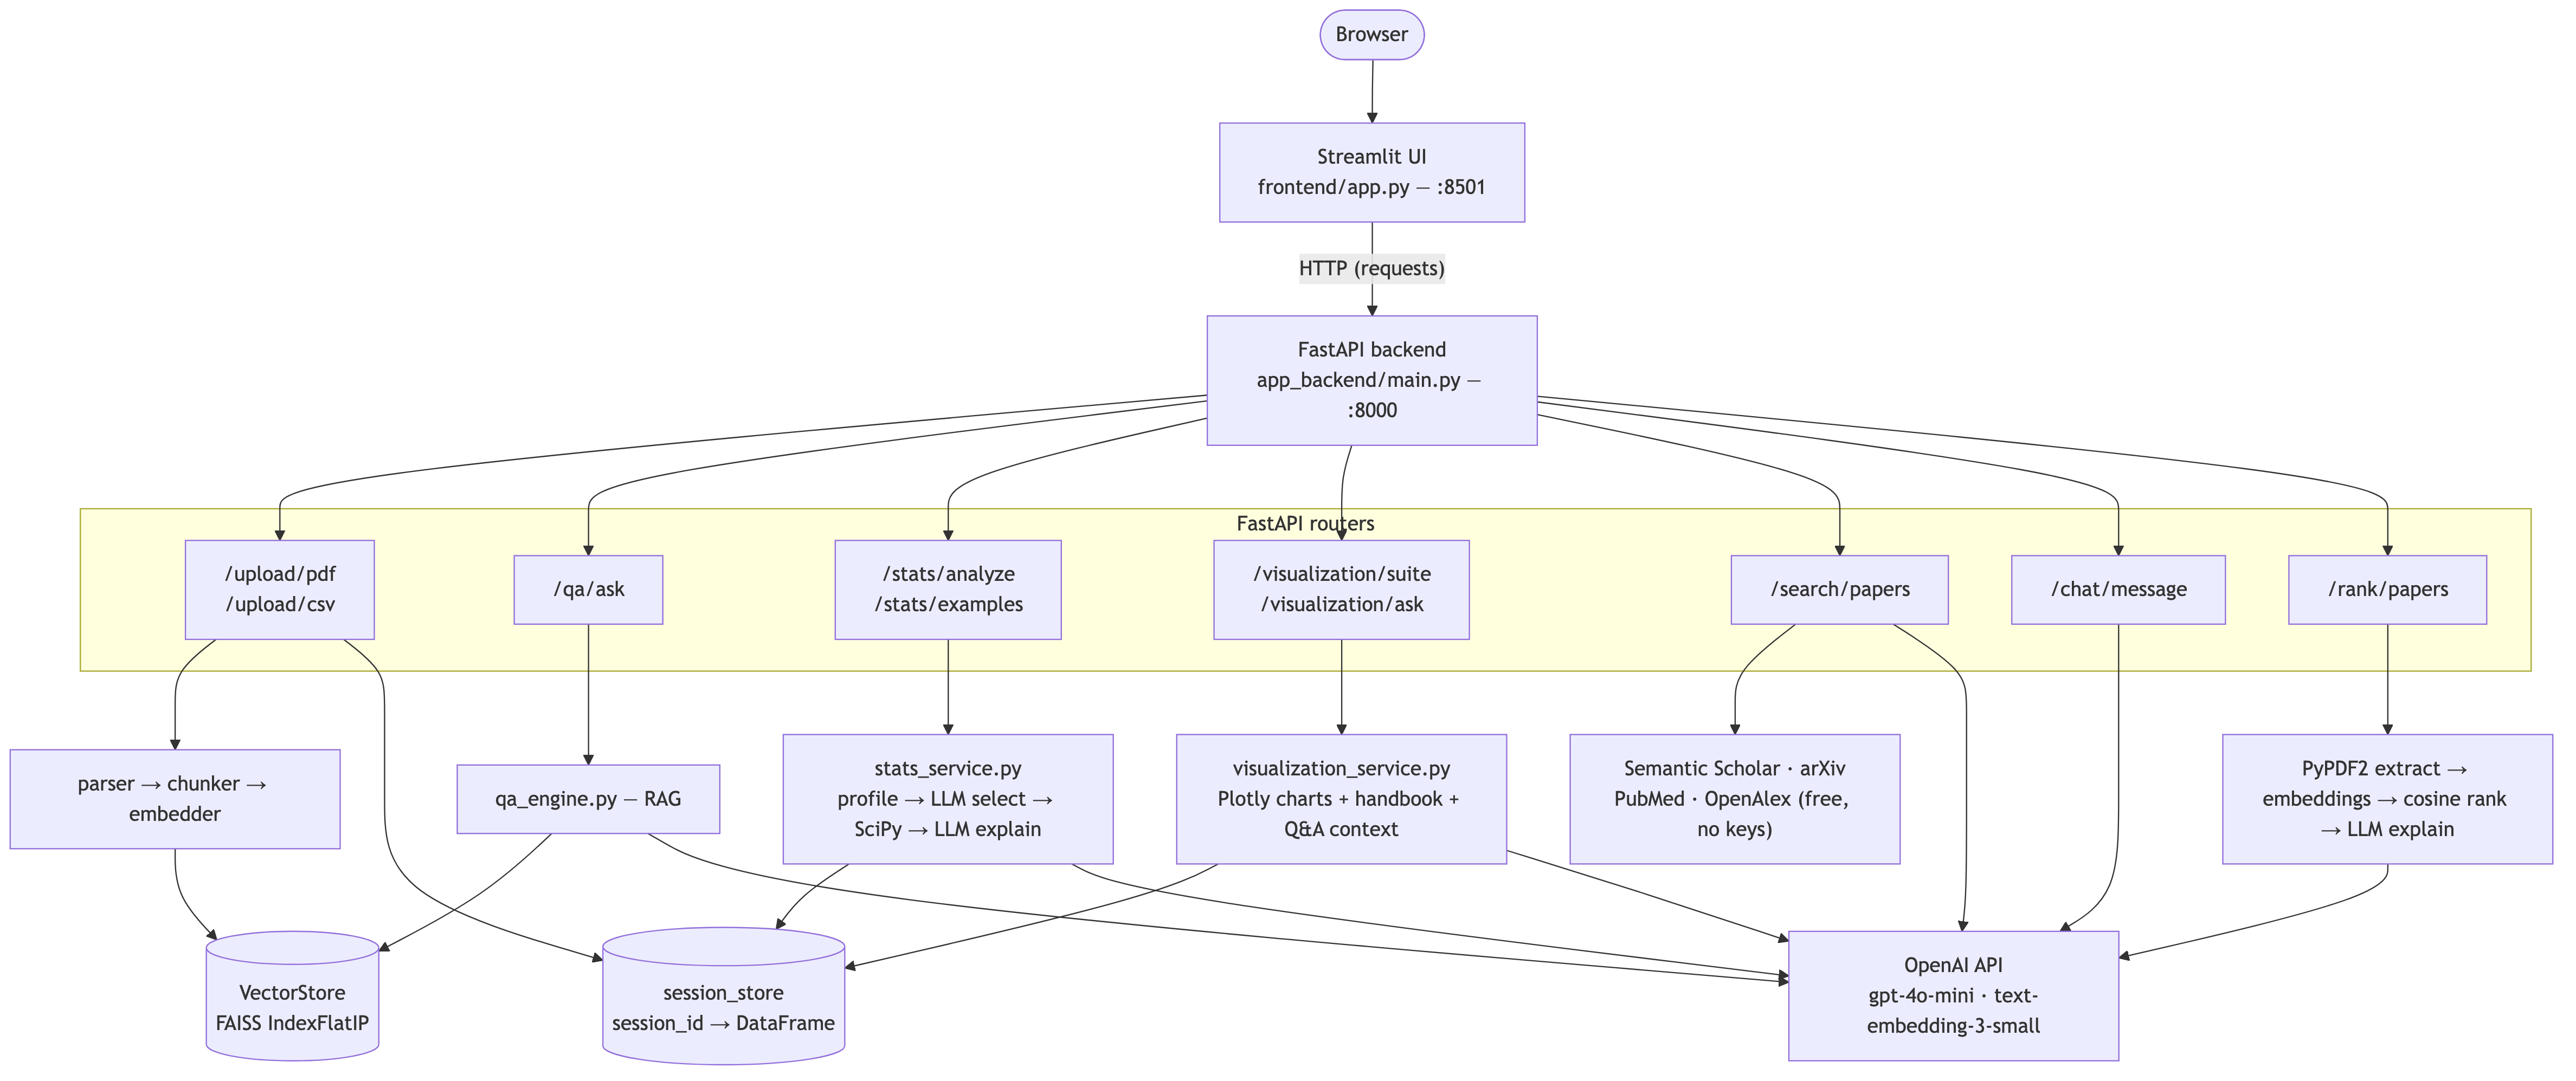
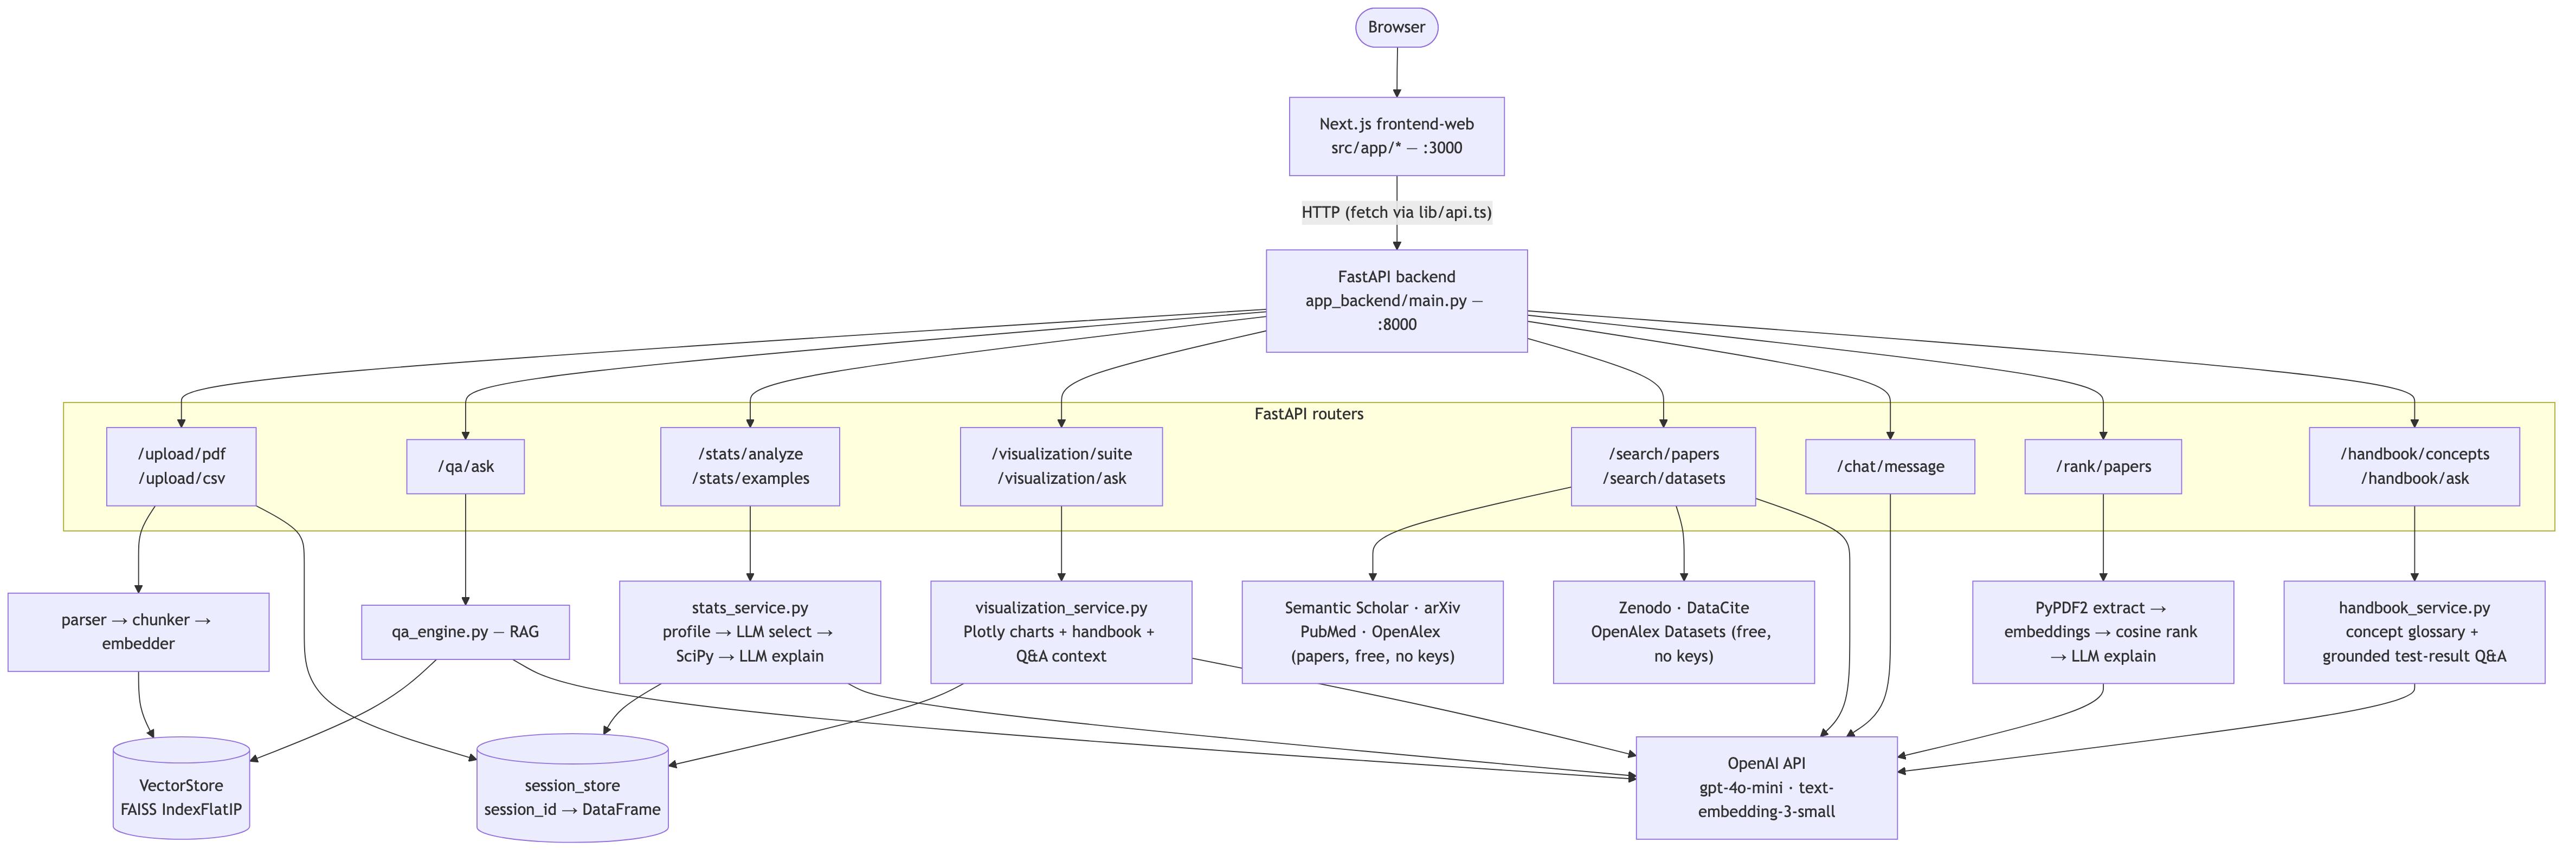
Update README architecture diagram and docs for Next.js frontend migration
Diagram, project structure, startup steps, flows, and reference tables
still described the old Streamlit UI and lacked the handbook and
dataset-search routers added since. Regenerated docs/architecture.png
to match.

diff --git a/README.md b/README.md
@@ -11,11 +11,12 @@ A research tool for students and academics. Upload **PDFs** and **CSV/XLSX datas
 | **Ask Questions** | Chat with an uploaded research PDF using RAG (retrieval-augmented generation) |
 | **Statistical Analysis** | Describe a hypothesis in plain language — the AI picks the right test, SciPy runs it, the AI explains the results. Results come with an interactive Plotly chart suite (boxplot, violin, bell curve, histogram, scatter, correlation matrix, or contingency heatmap depending on the test), a plain-language caption and handbook per chart, and a mini chat to ask follow-up questions about any chart. Export to CSV or XLSX. |
 | **Data Preview** | Inspect columns, types, and sample rows from your uploaded dataset |
-| **Find Papers** | Enter a research question — searches Semantic Scholar, arXiv, PubMed, and OpenAlex in parallel and summarises the literature with an LLM |
+| **Find Papers & Datasets** | Enter a research question — searches Semantic Scholar, arXiv, PubMed, and OpenAlex in parallel and summarises the literature with an LLM; or switch to dataset mode to search Zenodo, DataCite, and OpenAlex Datasets for open data matching your hypothesis |
 | **Hypothesis Chat** | Chat about any hypothesis, scientific or wild — the AI engages thoughtfully and asks follow-up questions |
 | **Rank Papers** | Upload up to 20 PDFs — the AI ranks them by relevance to your research question with explanations and key quotes. Export to Word or PDF. |
+| **Statistics Handbook** | Look up core statistics concepts and every supported hypothesis test in plain language, or ask the built-in chatbot — answers ground themselves in your actual test result when one is available. |
 
-The UI is a **Streamlit** app; all heavy logic lives in a **FastAPI** backend. They communicate over HTTP on `localhost`.
+The UI is a **Next.js** app (`frontend-web/`); all heavy logic lives in a **FastAPI** backend. They communicate over HTTP on `localhost`.
 
 ---
 
@@ -26,11 +27,11 @@ The UI is a **Streamlit** app; all heavy logic lives in a **FastAPI** backend. T
 - [Startup](#startup)
 - [Flow 1: PDF upload and Q&A](#flow-1-pdf-upload-and-qa)
 - [Flow 2: Dataset upload and statistical analysis](#flow-2-dataset-upload-and-statistical-analysis)
-- [Flow 3: Find Papers](#flow-3-find-papers)
+- [Flow 3: Find Papers & Datasets](#flow-3-find-papers--datasets)
 - [Flow 4: Hypothesis Chat](#flow-4-hypothesis-chat)
 - [Flow 5: Rank Papers](#flow-5-rank-papers)
 - [Export options](#export-options)
-- [Frontend session state](#frontend-session-state)
+- [Frontend state](#frontend-state)
 - [Backend modules reference](#backend-modules-reference)
 - [API endpoints](#api-endpoints)
 - [Supported statistical tests](#supported-statistical-tests)
@@ -42,19 +43,20 @@ The UI is a **Streamlit** app; all heavy logic lives in a **FastAPI** backend. T
 
 ```mermaid
 flowchart TD
-    Browser(["Browser"]) --> UI["Streamlit UI\nfrontend/app.py — :8501"]
-    UI -- "HTTP (requests)" --> API["FastAPI backend\napp_backend/main.py — :8000"]
+    Browser(["Browser"]) --> UI["Next.js frontend-web\nsrc/app/* — :3000"]
+    UI -- "HTTP (fetch via lib/api.ts)" --> API["FastAPI backend\napp_backend/main.py — :8000"]
 
     subgraph Routers["FastAPI routers"]
         RUpload["/upload/pdf\n/upload/csv"]
         RQA["/qa/ask"]
         RStats["/stats/analyze\n/stats/examples"]
         RViz["/visualization/suite\n/visualization/ask"]
-        RSearch["/search/papers"]
+        RSearch["/search/papers\n/search/datasets"]
         RChat["/chat/message"]
         RRank["/rank/papers"]
+        RHandbook["/handbook/concepts\n/handbook/ask"]
     end
-    API --> RUpload & RQA & RStats & RViz & RSearch & RChat & RRank
+    API --> RUpload & RQA & RStats & RViz & RSearch & RChat & RRank & RHandbook
 
     RUpload --> PdfPipe["parser → chunker → embedder"] --> VecStore[("VectorStore\nFAISS IndexFlatIP")]
     RUpload --> SessionStore[("session_store\nsession_id → DataFrame")]
@@ -70,12 +72,16 @@ flowchart TD
     VizService --> SessionStore
     VizService --> OpenAI
 
-    RSearch --> Academic["Semantic Scholar · arXiv\nPubMed · OpenAlex (free, no keys)"]
+    RSearch --> Academic["Semantic Scholar · arXiv\nPubMed · OpenAlex (papers, free, no keys)"]
+    RSearch --> DataReg["Zenodo · DataCite\nOpenAlex Datasets (free, no keys)"]
     RSearch --> OpenAI
 
     RChat --> OpenAI
 
     RRank --> RankLogic["PyPDF2 extract → embeddings → cosine rank → LLM explain"] --> OpenAI
+
+    RHandbook --> HandbookService["handbook_service.py\nconcept glossary + grounded test-result Q&A"]
+    HandbookService --> OpenAI
 
     OpenAI["OpenAI API\ngpt-4o-mini · text-embedding-3-small"]
 ```
@@ -91,15 +97,17 @@ npx @mermaid-js/mermaid-cli -i /tmp/arch.mmd -o docs/architecture.png -w 1600 -H
 
 | Layer | Technology | Role |
 |-------|------------|------|
-| Frontend | Streamlit | File uploads, tabs, chat UI, results display, export |
+| Frontend | Next.js (App Router), TypeScript | Pages/nav, file uploads, chat UI, results display, export |
 | API | FastAPI | REST endpoints, CORS, shared singletons |
 | PDF pipeline | PyPDF2, chunker, OpenAI embeddings | Index document for search |
 | Vector search | FAISS (or numpy fallback) | Similarity search over chunk embeddings |
 | Data | pandas | Load CSV/XLSX, profile schema, run tests |
 | Statistics | SciPy, statsmodels | Actual hypothesis tests |
 | Visualization | Plotly (`graph_objects`) | Gauge, boxplot, violin, bell curve, histogram, scatter, correlation matrix, contingency heatmap |
-| Intelligence | OpenAI (`gpt-4o-mini`, `text-embedding-3-small`) | Test selection, Q&A, explanations, summaries, chat, chart Q&A |
+| Intelligence | OpenAI (`gpt-4o-mini`, `text-embedding-3-small`) | Test selection, Q&A, explanations, summaries, chat, chart Q&A, handbook Q&A |
 | Academic search | Semantic Scholar, arXiv, PubMed, OpenAlex APIs | Free paper search — no API keys required |
+| Dataset search | Zenodo, DataCite, OpenAlex Datasets APIs | Free open-dataset search — no API keys required |
+| Handbook | `handbook_service.py` | Statistics concept glossary + grounded chatbot over a computed result |
 | Export | python-docx, reportlab, openpyxl | Word, PDF, XLSX file generation |
 
 ---
@@ -108,8 +116,27 @@ npx @mermaid-js/mermaid-cli -i /tmp/arch.mmd -o docs/architecture.png -w 1600 -H
 
 ```
 Hypothesis_App/
-├── frontend/
-│   └── app.py                  # Streamlit UI — all 6 tabs, export helpers
+├── frontend-web/                       # Next.js (App Router) UI
+│   ├── src/
+│   │   ├── app/
+│   │   │   ├── page.tsx                # Landing page
+│   │   │   ├── hypothesis-chat/        # Flow 4
+│   │   │   ├── ask-questions/          # Flow 1
+│   │   │   ├── find/                   # Flow 3 (papers + datasets)
+│   │   │   ├── rank-papers/            # Flow 5
+│   │   │   ├── statistical-analysis/   # Flow 2
+│   │   │   ├── handbook/               # Statistics Handbook
+│   │   │   └── data-preview/           # Dataset column/row inspection
+│   │   ├── components/
+│   │   │   ├── AppShell.tsx            # Sidebar nav + PDF/CSV upload tiles
+│   │   │   ├── ChartCard.tsx           # Plotly chart + handbook/Q&A expanders
+│   │   │   └── PlotlyChart.tsx         # Plotly.js wrapper
+│   │   └── lib/
+│   │       ├── api.ts                  # fetch wrapper (BACKEND_URL, JSON/multipart)
+│   │       ├── store.ts                # Zustand — PDF/CSV/stats global state
+│   │       ├── nav.ts                  # Sidebar nav items
+│   │       └── types.ts                # Shared TS types
+│   └── .env.local                      # NEXT_PUBLIC_BACKEND_URL
 ├── app_backend/
 │   ├── main.py                 # FastAPI app factory, wires routers + singletons
 │   ├── config.py               # Loads .env, OpenAI and path settings
@@ -119,17 +146,19 @@ Hypothesis_App/
 │   │   ├── qa.py               # POST /qa/ask
 │   │   ├── stats.py            # POST /stats/analyze, /stats/examples
 │   │   ├── visualization.py    # POST /visualization/suite, /visualization/ask
-│   │   ├── search.py           # POST /search/papers (multi-source academic search)
+│   │   ├── search.py           # POST /search/papers, /search/datasets (multi-source search)
 │   │   ├── chat.py             # POST /chat/message (hypothesis chatbot)
-│   │   └── rank.py             # POST /rank/papers (PDF relevance ranking)
+│   │   ├── rank.py             # POST /rank/papers (PDF relevance ranking)
+│   │   └── handbook.py         # GET /handbook/concepts, POST /handbook/ask
 │   ├── services/
 │   │   ├── parser.py           # PDF → text
 │   │   ├── chunker.py          # Text → overlapping chunks
 │   │   ├── embedder.py         # Text → OpenAI vectors
 │   │   ├── qa_engine.py        # RAG question answering
 │   │   ├── stats_service.py    # Profile → select test → run → explain
-│   │   └── visualization_service.py  # Test result → Plotly chart suite +
-│   │                                  # handbook + LLM chart Q&A context
+│   │   ├── visualization_service.py  # Test result → Plotly chart suite +
+│   │   │                              # handbook + LLM chart Q&A context
+│   │   └── handbook_service.py # Concept glossary + grounded test-result Q&A
 │   └── utils/
 │       ├── vector_store.py     # FAISS IndexFlatIP or numpy fallback
 │       └── session_store.py    # session_id → DataFrame
@@ -171,25 +200,36 @@ Copy `.env.example` to `.env` and add your OpenAI API key:
 OPENAI_API_KEY=sk-...
 ```
 
+`frontend-web/.env.local` already points at the local backend by default:
+
+```
+NEXT_PUBLIC_BACKEND_URL=http://localhost:8000
+```
+
 ### 4. Start the backend (Terminal 1)
 
 ```bash
 uvicorn app_backend.main:app --reload --port 8000
 ```
 
-### 5. Start the frontend (Terminal 2)
+### 5. Install and start the frontend (Terminal 2)
 
 ```bash
-streamlit run frontend/app.py
+cd frontend-web
+npm install   # first time only
+npm run dev
 ```
 
-Open **http://localhost:8501** in your browser.
+Open **http://localhost:3000** in your browser.
 
 ### Restarting after changes
 
 ```bash
-# Stop with Ctrl+C, then:
-source myenv/bin/activate && streamlit run frontend/app.py
+# Backend: stop with Ctrl+C, then:
+source myenv/bin/activate && uvicorn app_backend.main:app --reload --port 8000
+
+# Frontend: Next.js hot-reloads on save; restart only if it hangs:
+cd frontend-web && npm run dev
 ```
 
 ---
@@ -205,7 +245,7 @@ User picks PDF in sidebar
         → chunker.py: ~1000-token chunks with 200-token overlap
         → embedder.py: OpenAI text-embedding-3-small for all chunks
         → vector_store.py: FAISS IndexFlatIP stores normalised vectors
-    → pdf_uploaded = True in session state
+    → Zustand store marks the PDF as uploaded (sidebar tile in AppShell)
 
 User asks a question
     → POST /qa/ask { question, top_k: 5 }
@@ -237,8 +277,8 @@ User types a question → "Run Analysis"
         → Phase D: LLM writes technical + plain-language explanation
     → Results: test badge, p-value, significance, rationale,
                variables used, assumption checks, interpretations
-    → Result persisted in session state (survives reruns) and added
-      to session history → exportable as CSV or XLSX
+    → Result persisted in the Zustand store (survives navigating to other
+      tabs and back) and added to stats history → exportable as CSV or XLSX
 
 Result renders → POST /visualization/suite { session_id, test_name,
                                               variables_used, p_value, alpha }
@@ -275,9 +315,9 @@ User asks a follow-up question in a chart's Q&A box
 
 ---
 
-## Flow 3: Find Papers
+## Flow 3: Find Papers & Datasets
 
-Use this to **discover relevant academic papers** for a research question.
+Use this to **discover relevant academic papers, or open datasets**, for a research question. A mode toggle on the page switches between the two.
 
 ```
 User types research question → selects sources → "Search Papers"
@@ -293,9 +333,21 @@ User types research question → selects sources → "Search Papers"
         → LLM generates a 3-5 sentence literature synthesis
     → UI shows: source badge, authors, year, citations, abstract,
                 links (Semantic Scholar, PDF, DOI), LLM summary above list
+
+User switches to "Datasets" mode → selects sources → "Search Datasets"
+    → POST /search/datasets { question, limit, sources }
+        → Same keyword-extraction step, queried against open dataset registries:
+            • Zenodo API
+            • DataCite API
+            • OpenAlex API filtered to type=dataset
+        → Results deduplicated by DOI and normalised title
+        → Sorted: datasets with a description first, then most recent
+        → LLM generates a short synthesis of what's available
+    → UI shows: source badge, authors, year, description, file formats,
+                dataset link, LLM summary above list
 ```
 
-All four sources are free — no API keys required.
+All seven sources (four paper, three dataset) are free — no API keys required.
 
 ---
 
@@ -355,20 +407,22 @@ Export buttons appear automatically once results are available.
 
 ---
 
-## Frontend session state
+## Frontend state
 
-| Key | Purpose |
-|-----|---------|
-| `pdf_uploaded`, `pdf_filename` | PDF tab enabled / label |
-| `csv_session_id`, `csv_filename`, `csv_columns`, `csv_dtypes`, `csv_preview`, `csv_rows` | Dataset identity and preview |
-| `chat_history` | Q&A messages `{role, content, sources?}` |
-| `stats_history` | Past analyses for history expander and export |
-| `example_questions`, `stat_question` | Stats tab UI state |
-| `last_stats_result` | Most recent analysis result, rendered unconditionally each run so it survives reruns triggered by unrelated widgets (e.g. a chart's "Ask" button) |
-| `viz_chat_{ui_id}_{chart_key}` | Per-chart Q&A conversation thread; `ui_id` is a UUID stamped onto each result the first time it renders |
-| `search_results`, `search_query_used`, `search_summary` | Find Papers results |
-| `hyp_chat_history` | Hypothesis Chat conversation |
-| `rank_results`, `rank_question` | Rank Papers results |
+`frontend-web` splits state into a small global **Zustand** store (`lib/store.ts`) for what needs to survive moving between pages, and plain **React `useState`** local to each page for everything else.
+
+| Store | Key | Purpose |
+|-------|-----|---------|
+| Zustand (global) | `pdfUploaded`, `pdfFilename` | Drives the PDF upload tile in `AppShell`'s sidebar, visible on every page |
+| Zustand (global) | `csvSessionId`, `csvFilename`, `csvColumns`, `csvDtypes`, `csvPreview`, `csvRows` | Dataset identity/preview, shared by the sidebar tile, Data Preview, and Statistical Analysis pages |
+| Zustand (global) | `lastStatsResult` | Most recent analysis result, so it's still shown if the user navigates away and back |
+| Zustand (global) | `statsHistory` | Past analyses for the history list and CSV/XLSX export |
+| Local (`ask-questions`) | chat messages `{role, content, sources?}` | Q&A conversation — resets on navigation away |
+| Local (`statistical-analysis`) | per-chart Q&A thread, keyed by chart | Chart follow-up conversations — resets on navigation away |
+| Local (`find`) | `mode`, `queryUsed`, `summary`, `paperResults`/`datasetResults` | Find Papers & Datasets results — resets on navigation away |
+| Local (`hypothesis-chat`) | chat history | Hypothesis Chat conversation — resets on navigation away |
+| Local (`rank-papers`) | `question`, `files`, `papers` | Rank Papers results — resets on navigation away |
+| Local (`handbook`) | chat history | Handbook chatbot conversation — resets on navigation away |
 
 ---
 
@@ -382,15 +436,17 @@ Export buttons appear automatically once results are available.
 | `routers/qa.py` | Delegates to `QAEngine` |
 | `routers/stats.py` | Loads session DataFrame, calls stats pipeline |
 | `routers/visualization.py` | Loads session DataFrame, calls chart-suite builder / chart Q&A |
-| `routers/search.py` | Keyword extraction, parallel multi-source search, deduplication, LLM summary |
+| `routers/search.py` | Keyword extraction, parallel multi-source search (papers and datasets), deduplication, LLM summary |
 | `routers/chat.py` | Hypothesis chatbot with conversation history |
 | `routers/rank.py` | PDF text extraction, embedding, cosine ranking, LLM explanations |
+| `routers/handbook.py` | Concept glossary endpoint; grounded Q&A over a computed test result |
 | `services/parser.py` | PDF → text (PyPDF2) |
 | `services/chunker.py` | Overlapping text chunks for RAG |
 | `services/embedder.py` | OpenAI embedding batches |
 | `services/qa_engine.py` | Retrieve chunks + generate answer |
 | `services/stats_service.py` | Profile → LLM select → SciPy → LLM explain |
 | `services/visualization_service.py` | Test result → Plotly chart suite, plain-language captions, chart handbook, and grounded context for chart Q&A |
+| `services/handbook_service.py` | Statistics concept glossary + describes a test result's numbers for grounded chatbot answers |
 | `utils/vector_store.py` | FAISS `IndexFlatIP` or numpy fallback |
 | `utils/session_store.py` | In-memory `session_id` → `{df, filename}` |
 
@@ -408,8 +464,11 @@ Export buttons appear automatically once results are available.
 | `POST` | `/visualization/suite` | Build the Plotly chart suite + captions + handbook for a result |
 | `POST` | `/visualization/ask` | Answer a follow-up question about one chart, grounded in its real numbers |
 | `POST` | `/search/papers` | Multi-source academic paper search |
+| `POST` | `/search/datasets` | Multi-source open dataset search |
 | `POST` | `/chat/message` | Hypothesis chatbot turn |
 | `POST` | `/rank/papers` | Rank uploaded PDFs by relevance to a question |
+| `GET` | `/handbook/concepts` | Full statistics concept + test glossary |
+| `POST` | `/handbook/ask` | Answer a statistics question, grounded in a test result if supplied |
 | `GET` | `/health` | `{ "status": "ok" }` |
 
 Interactive docs: **http://localhost:8000/docs**
@@ -450,3 +509,9 @@ Every active test also gets the p-value-vs-alpha gauge. Parametric tests include
 | `OPENAI_MAX_CONTEXT_CHARS` | `12000` | Max retrieved context length for Q&A |
 | `OPENAI_MAX_OUTPUT_TOKENS` | `1500` | Max tokens for generated answers/explanations |
 | `UPLOAD_DIR` | `/tmp/stat_app_uploads` | Upload directory (created automatically) |
+
+`frontend-web/.env.local` (frontend, not backend):
+
+| Variable | Default | Description |
+|----------|---------|--------------|
+| `NEXT_PUBLIC_BACKEND_URL` | `http://localhost:8000` | Base URL the Next.js app calls for all API requests (`lib/api.ts`) |